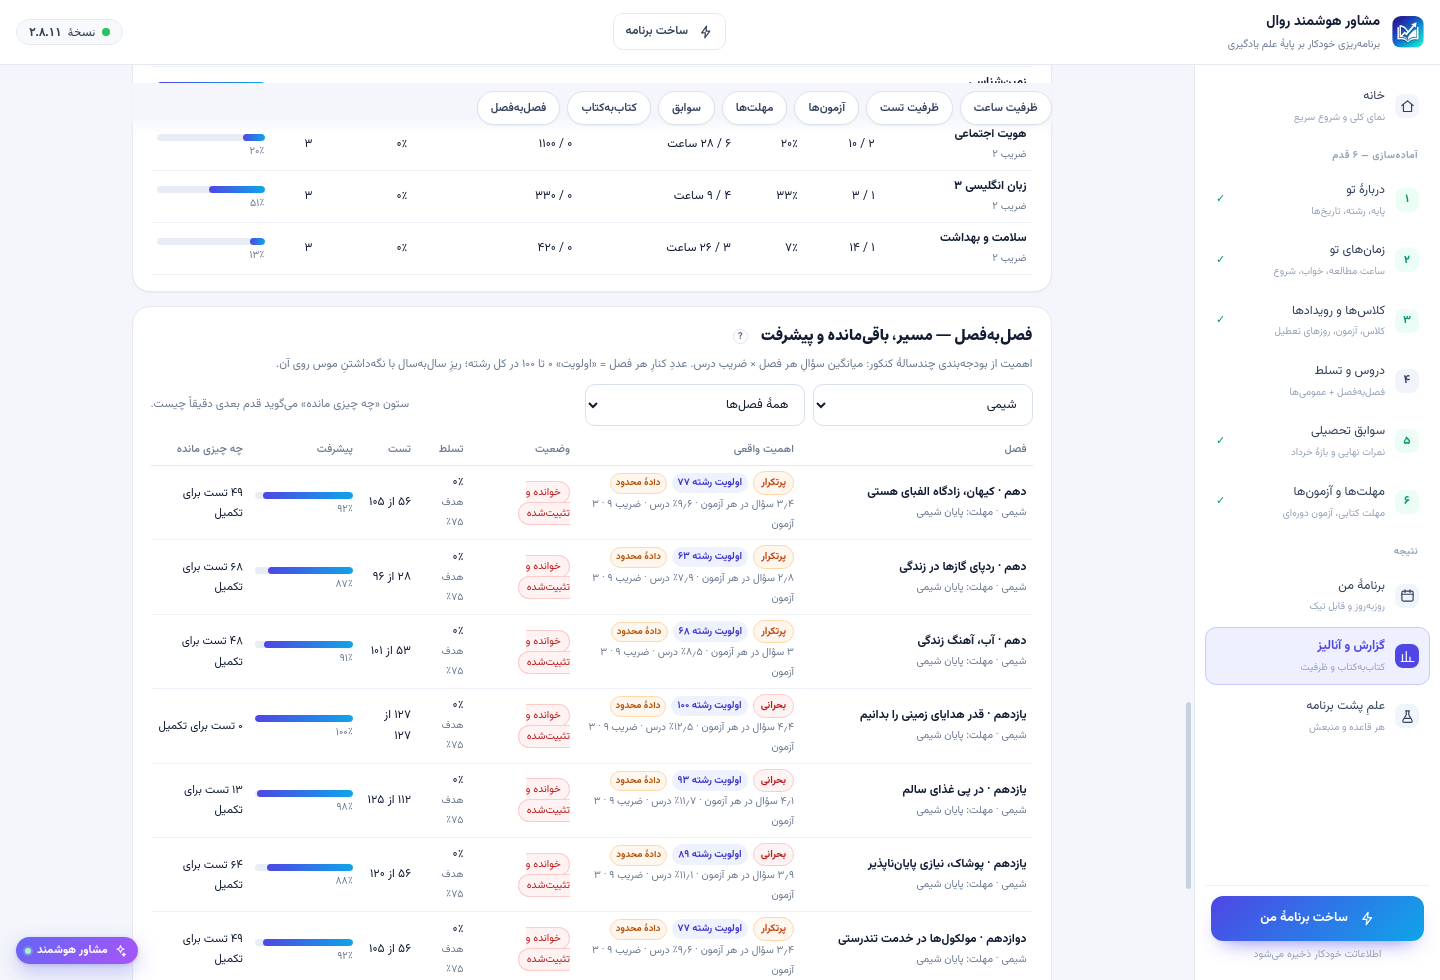
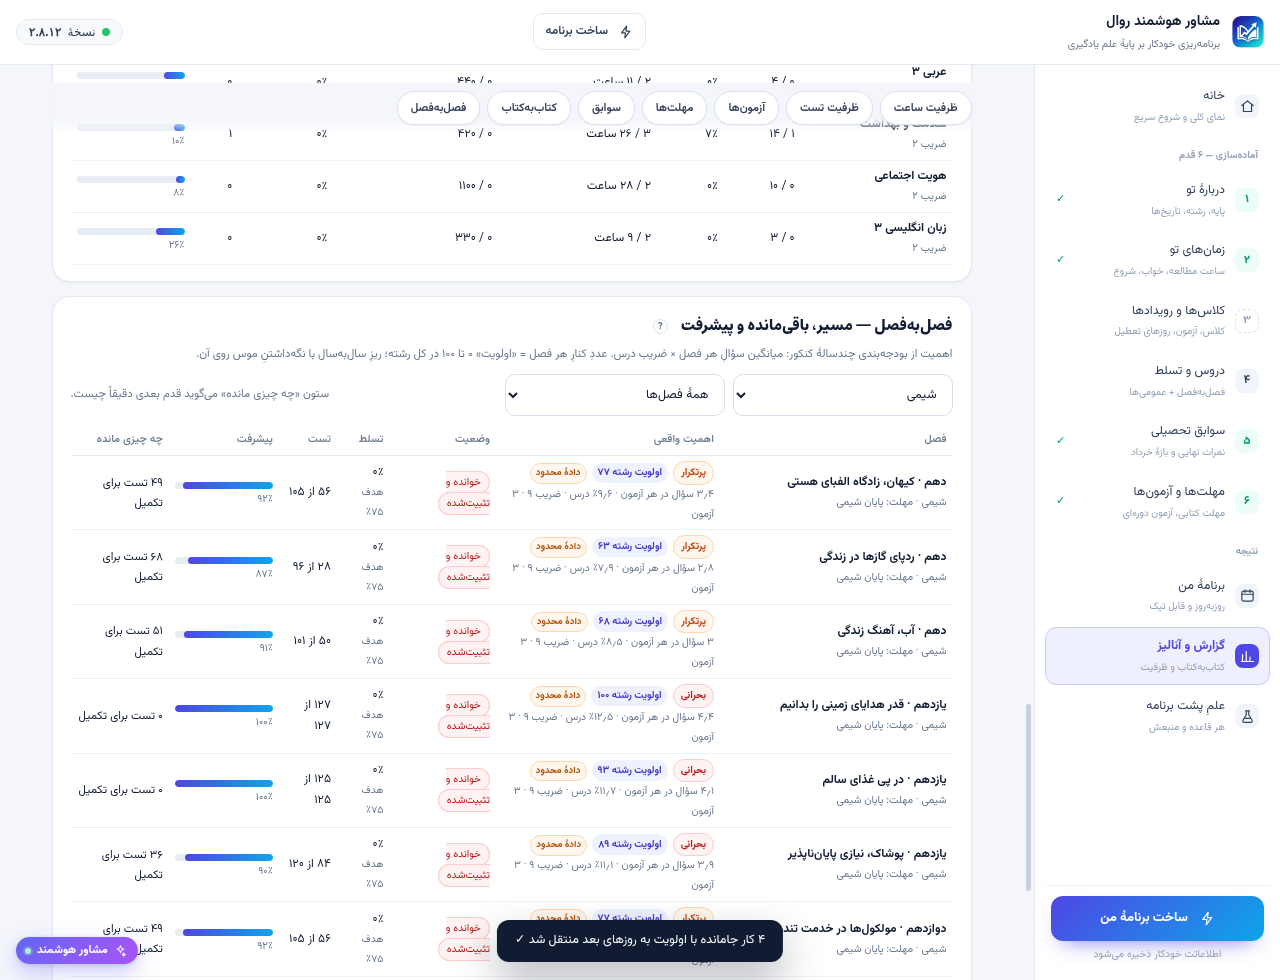
docs(2.8.12): اسکرینشات تازه با نسخهٔ ۲.۸.۱۲ و بستنِ پنجرهٔ تغییرات در تست
- test/planner-bridge-mock.js: نسخهٔ نمایشی ۲.۸.۱۲
- test/ui-exam-importance.js: قبل از اسکرینشات، مودالها بسته میشوند
- docs/screens/ui-60-exam-evidence-importance.png: تصویر نهایی جدول «اهمیت واقعی»

diff --git a/test/ui-exam-importance.js b/test/ui-exam-importance.js
@@ -119,7 +119,13 @@ app.whenReady().then(async () => {
     return q?q.getAttribute('title'):'';})()`);
   check(/ضریب/.test(help) && /بودجه/.test(help), 'راهنمای «؟» روش محاسبه (بودجه × ضریب) را میگوید', (help || '').slice(0, 80));
 
-  /* اسکرینشات مستندات */
+  /* اسکرینشات مستندات — اول هر پنجرهٔ باز (مثل تغییرات) بسته شود */
+  await js(`(function(){
+    const b=[...document.querySelectorAll('button')].find(function(x){return /خودم میبندم|بستن|باشه/.test(x.textContent);});
+    if(b) b.click();
+    document.querySelectorAll('.modal-back, .cl-modal, .modal').forEach(function(m){ if(m && m.style) m.style.display='none'; });
+    return true;})()`);
+  await wait(500);
   await js(`(function(){const c=document.getElementById('chapterCard'); if(c&&c.scrollIntoView) c.scrollIntoView({block:'start'}); return true;})()`);
   await wait(600);
   fs.writeFileSync(path.join(__dirname, '..', 'docs', 'screens', 'ui-60-exam-evidence-importance.png'),

diff --git a/test/planner-bridge-mock.js b/test/planner-bridge-mock.js
@@ -17,7 +17,7 @@ contextBridge.exposeInMainWorld('revalPlanner', {
   },
   saveFile: async () => ({ ok: true }),
   close: async () => ({ ok: true }),
-  info: async () => ({ version: '2.8.11', test: true }),
+  info: async () => ({ version: '2.8.12', test: true }),
   ai: {
     config: async () => ({ configured: false }),
     saveConfig: async () => ({ ok: true }),
@@ -25,7 +25,7 @@ contextBridge.exposeInMainWorld('revalPlanner', {
     chat: async () => ({ ok: false, error: 'تست' }),
   },
   updates: {
-    state: async () => ({ current: '2.8.11', latest: '2.8.11', status: 'idle' }),
+    state: async () => ({ current: '2.8.12', latest: '2.8.12', status: 'idle' }),
     check: async () => ({ ok: true }),
     download: async () => ({ ok: true }),
     install: async () => ({ ok: true }),
